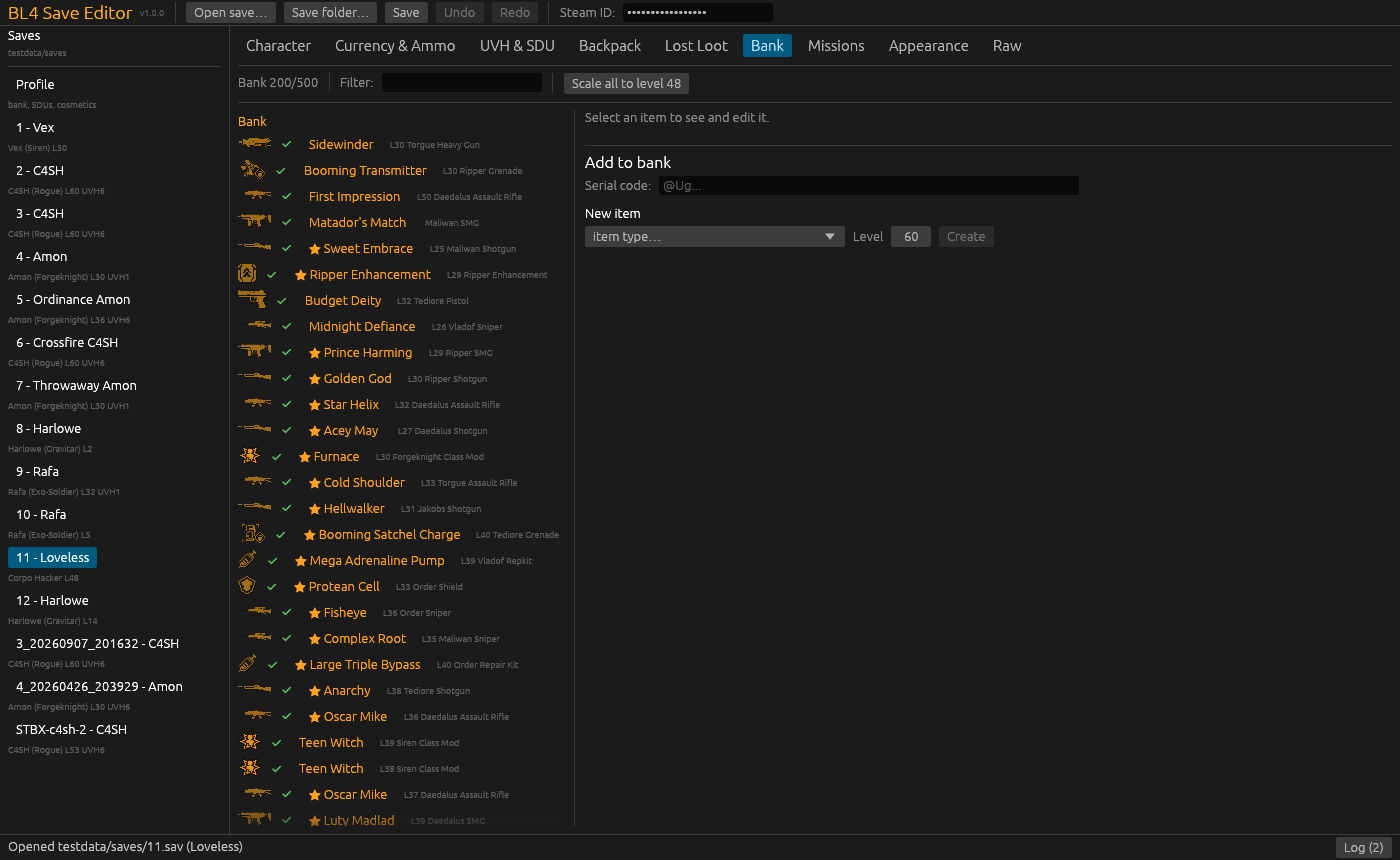
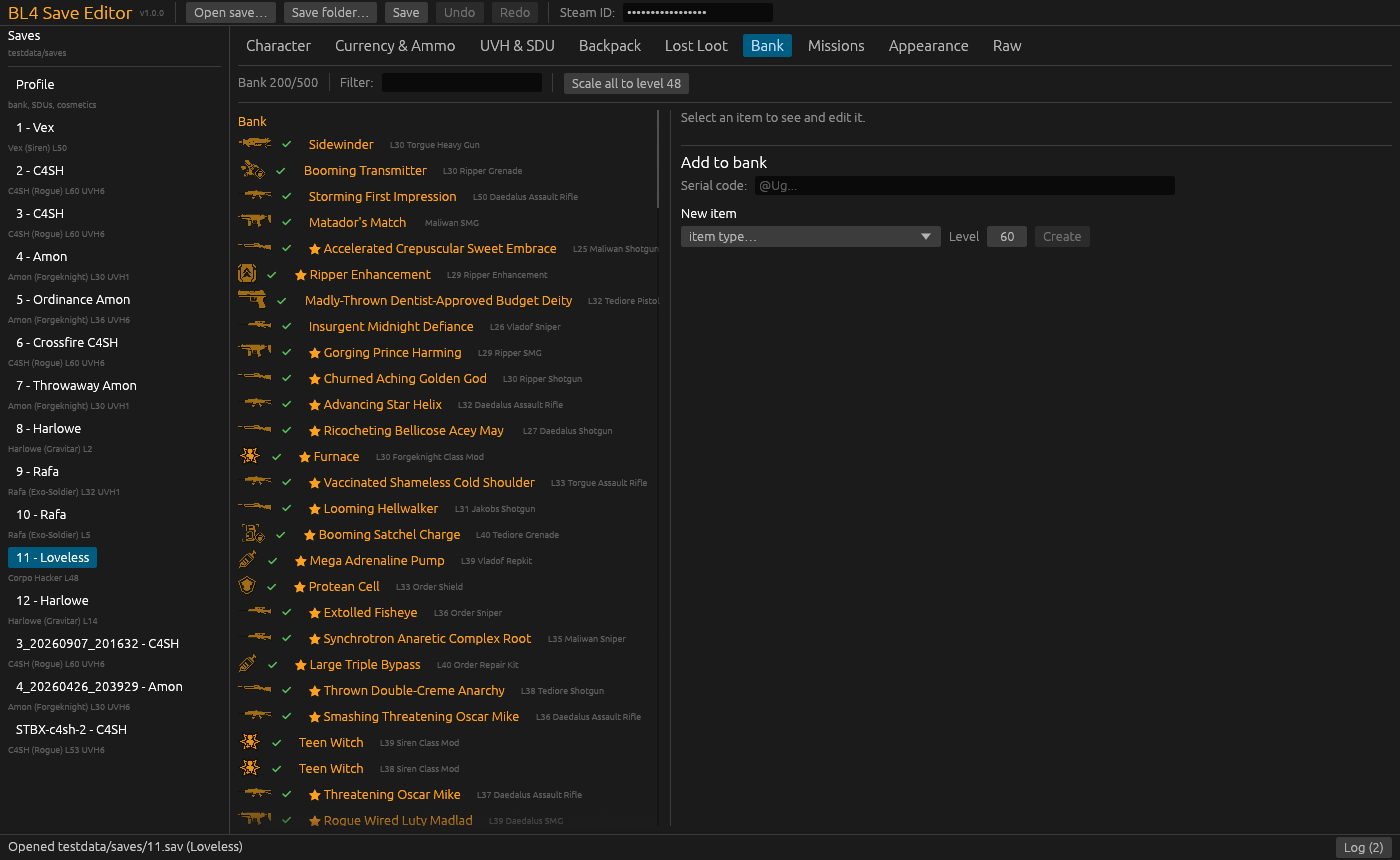
Screenshots with weapon names; naming and value discoveries; changelog

diff --git a/.claude/docs/discoveries/weapon-card-stats.md b/.claude/docs/discoveries/weapon-card-stats.md
@@ -25,3 +25,19 @@ Open questions:
 - Name prefixes ("Watching", "Ambushing") and item value: see naming investigation.
 
 Relevant code: crates/bl4core/src/stats.rs, tools/build_db.py.
+
+## Name prefixes and sell value
+
+Status: CONFIRMED (prefixes, 11/11 in-game names); LIKELY (value, 7 cards within $3)
+
+- Prefix (OakWeaponNamingStrategy): per naming attribute (Resident InventoryNamingAttributes), ratio = Value / BaseValue;
+  thresholds (first, second; second < first means lower is better). One passing attribute -> single/double name;
+  two or more -> combination name of the top two by single-name priority (Jakobs: Damage 8, Crit 7, FireRate 6,
+  Reload 5, Mag 4, Accuracy 3, Elemental 2, ADS 1). Licensed-part prefix from magbarreldatatable (row = barrel-acc
+  licence, column = magazine licence). Any part with bDisablePrefixes = no prefix (Plasma Coil).
+- Value = itemtype monetaryvalue x prod(part monetaryvaluemodifier); base = 1.12^level x 100 x gun-type multiplier x
+  wear factor, wear = 1 - (wear+rust+dirt+sun)/20 drawn from UE FRandomStream(serial seed) within the rarity comp's
+  WeaponWearAspect ranges. Off by $0-3 on 6 of 7 cards: residual per-item wear noise, cause UNKNOWN
+  (hypothesis: inv_params wear_params 'wb'). Shown as "~$" and for weapons only; other kinds unverified.
+
+Relevant code: stats.rs weapon_prefix / item_value, tests/naming_value.rs.

diff --git a/CHANGELOG.md b/CHANGELOG.md
@@ -8,11 +8,11 @@ First release.
   weapons, shields, ordnance, repkits, enhancements, class mods): every part in
   a searchable dropdown limited to its slot, add/remove parts, level,
   favorite/junk, serial codes, duplicate, move, delete, build new items.
-- Item card with name, rarity (incl. pearlescent), manufacturer logo, element,
+- Item card with full in-game name (stat and licensed-part prefixes), rarity (incl. pearlescent), manufacturer logo, element,
   firmware, effect text with real numbers and red flavour text.
 - Weapon stats computed from the game data and checked against in-game cards:
   damage, accuracy, fire rate (incl. burst weapons), magazine, reload time,
-  DPS, elemental DPS and chance, splash radius, crit.
+  DPS, elemental DPS and chance, splash radius, crit, approximate sell value.
   Base stats for shields, ordnance and repkits.
 - Validity check of every item against the game data; confirmation before
   saving items the game would reject; mod-only parts recognised.
